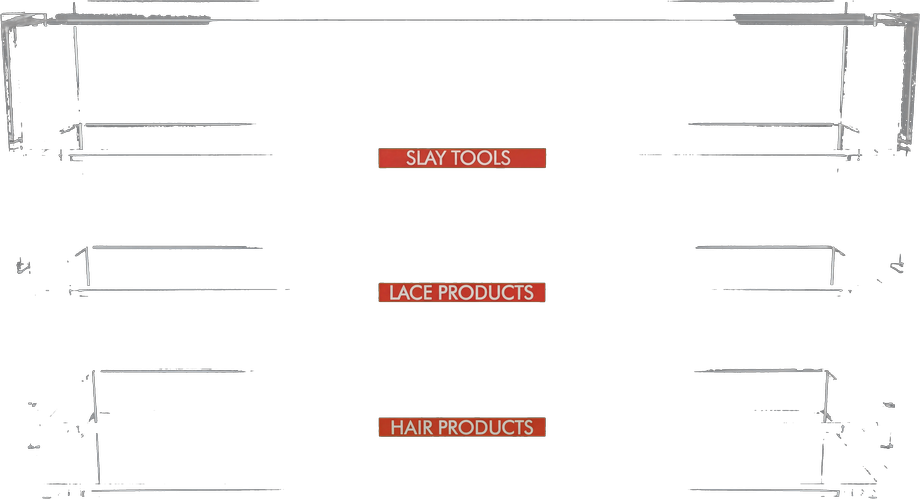
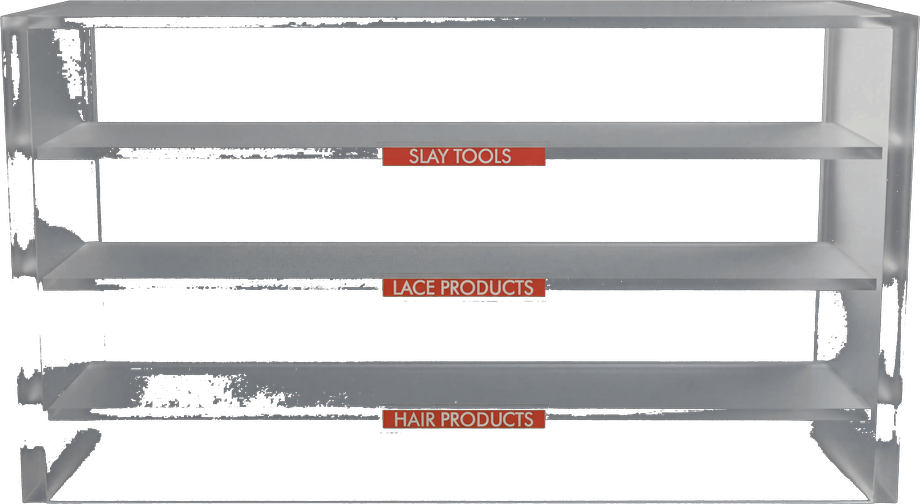
Lobby display case: rebake from wHPQKCAb Supabase asset
New source wHPQKCAbC2LStCesR63Uy_VFNUqidw.jpeg → CASE.png (920×504)
via lobby-chroma-key acrylic unspill. LOBBY_CASE_ASSET_VERSION wHPQKCAb-v1.

diff --git a/src/constants/lobbyCaseAssets.ts b/src/constants/lobbyCaseAssets.ts
@@ -4,10 +4,10 @@
  */
 
 /** Display-case acrylic (`CASE.png`) — `npm run lobby:bake-case`. */
-export const LOBBY_CASE_ASSET_VERSION = 'RRrEEA6l-v2';
+export const LOBBY_CASE_ASSET_VERSION = 'wHPQKCAb-v1';
 
 export const LOBBY_CASE_SRC_REMOTE =
-  'https://hyycomvcaqxxvyrfupes.supabase.co/storage/v1/object/public/live-preview/LP%20Images/RRrEEA6lu1lkeleVPTgsP_wgs8vmEv.jpeg';
+  'https://hyycomvcaqxxvyrfupes.supabase.co/storage/v1/object/public/live-preview/LP%20Images/wHPQKCAbC2LStCesR63Uy_VFNUqidw.jpeg';
 
 export const LOBBY_CASE_SRC = `/assets/CASE.png?v=${LOBBY_CASE_ASSET_VERSION}`;
 
